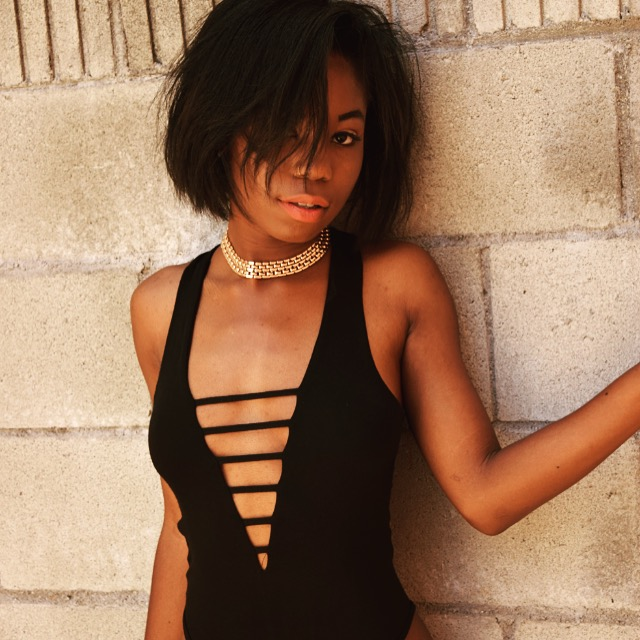
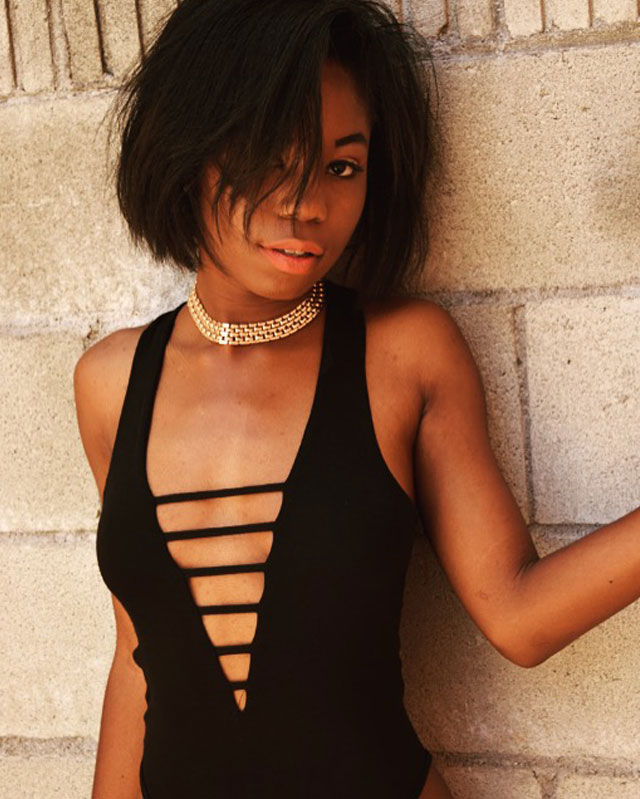
Removed Masonry...
made all images same size, updated sass and html

diff --git a/tiarra/portfolio.html b/tiarra/portfolio.html
@@ -60,50 +60,50 @@
                 <label id="label2" for="stats-toggler2">International</label>
             </ul>
         </section>
-        <section class="grid">
-            <div class="grid-item">
+        <section class="model-gallery">
+            <div class="gallery-item">
                 <img src="assets/images/gallery/01.jpg" alt="Tiarra Alexandra" />
             </div>
-            <div class="grid-item">
+            <div class="gallery-item">
                 <img src="assets/images/gallery/02.jpg" alt="Tiarra Alexandra" />
             </div>
-            <div class="grid-item">
+            <div class="gallery-item">
                 <img src="assets/images/gallery/04.jpg" alt="Tiarra Alexandra" />
             </div>
-            <div class="grid-item">
+            <div class="gallery-item">
                 <img src="assets/images/gallery/03.jpg" alt="Tiarra Alexandra" />
             </div>
-            <div class="grid-item">
+            <div class="gallery-item">
                 <img src="assets/images/gallery/06.jpg" alt="Tiarra Alexandra" />
             </div>
-            <div class="grid-item">
+            <div class="gallery-item">
                 <img src="assets/images/gallery/05.jpg" alt="Tiarra Alexandra" />
             </div>
-            <div class="grid-item">
+            <div class="gallery-item">
                 <img src="assets/images/gallery/07.jpg" alt="Tiarra Alexandra" />
             </div>
-            <div class="grid-item">
+            <div class="gallery-item">
                 <img src="assets/images/gallery/08.jpg" alt="Tiarra Alexandra" />
             </div>
-            <div class="grid-item">
+            <div class="gallery-item">
                 <img src="assets/images/gallery/09.jpg" alt="Tiarra Alexandra" />
             </div>
-            <div class="grid-item">
+            <div class="gallery-item">
                 <img src="assets/images/gallery/10.jpg" alt="Tiarra Alexandra" />
             </div>
-            <div class="grid-item">
+            <div class="gallery-item">
                 <img src="assets/images/gallery/11.jpg" alt="Tiarra Alexandra" />
             </div>
-            <div class="grid-item">
+            <div class="gallery-item">
                 <img src="assets/images/gallery/12.jpg" alt="Tiarra Alexandra" />
             </div>
-            <div class="grid-item">
+            <div class="gallery-item">
                 <img src="assets/images/gallery/13.jpg" alt="Tiarra Alexandra" />
             </div>
-            <div class="grid-item">
+            <div class="gallery-item">
                 <img src="assets/images/gallery/14.jpg" alt="Tiarra Alexandra" />
             </div>
-            <div class="grid-item">
+            <div class="gallery-item">
                 <img src="assets/images/gallery/15.jpg" alt="Tiarra Alexandra" />
             </div>
 
@@ -123,14 +123,5 @@
     </div> <!-- End of page wrap -->
       <script src="https://code.jquery.com/jquery-2.1.4.min.js"></script>
       <script src="assets/js/functions.js"></script>
-      <script src="https://npmcdn.com/masonry-layout@4.0/dist/masonry.pkgd.min.js"></script>
-      <script type="text/javascript">
-        $('.grid').masonry({
-          // options
-          itemSelector: '.grid-item',
-          columnWidth: 546,
-          gutter: 23
-          });
-      </script>
   </body>
 </html>

diff --git a/tiarra/assets/css/2-modules/modules.sass b/tiarra/assets/css/2-modules/modules.sass
@@ -275,20 +275,20 @@ ul.stats-controller
 //Portfolio Page
 
 //Model Gallery
-.grid
+.model-gallery
   max-width: 1115px
   width: 100%
   margin: 0 auto
 
-  .grid-item
+  .gallery-item
     width: 100%
-    margin-bottom: 23px
+    margin-bottom: 25px
     +desktop
       max-width: 545px
       float: left
     img
       width: 100%
-  .margin-right
+  .gallery-item:nth-child(odd)
     margin-right: 25px
 
 
